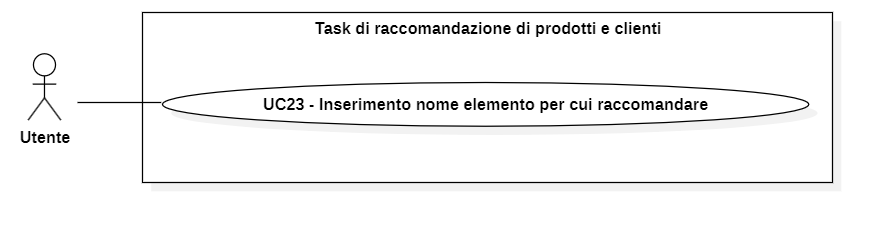
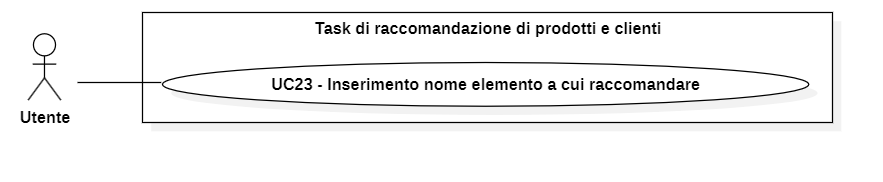
Sistemazione dei casi d'uso dopo l'incontro con il professor Zanella del 28 maggio

diff --git a/chapters/3-analisi-requisiti.tex b/chapters/3-analisi-requisiti.tex
@@ -66,7 +66,7 @@ I casi d’uso che sono stati definiti sono i seguenti:
 \usecaseactors{Utente}
 \usecasepre{L'utente ha avviato la task di analisi delle vendite}
 \usecasedesc{L'utente carica un file CSV contenente i dati delle vendite}
-\usecasepost{Il sistema ha caricato il file CSV e lo ha memorizzato in un database Google Cloud}
+\usecasepost{Il sistema ha caricato il file CSV e lo ha memorizzato in un bucket del Google Cloud Storage}
 \label{uc:caricamento-file-csv}
 \end{usecase}
 
@@ -227,6 +227,17 @@ I casi d’uso che sono stati definiti sono i seguenti:
 \usecasepost{L'utente ha visualizzato l'esito positivo della task di analisi delle vendite}
 \usecasealt{UC14}
 \label{uc:visualizzazione-esito-positivo-task}
+\end{usecase}
+
+
+\hypertarget{UC13.1}{}
+\begin{usecase}{13.1}{Visualizzazione del token identificativo del file degli ordini}
+
+\usecaseactors{Utente}
+\usecasepre{L'utente ha cliccato sul pulsante di esecuzione della task di analisi delle vendite}
+\usecasedesc{L'utente visualizza il token identificativo del file degli ordini caricato}
+\usecasepost{L'utente ha visualizzato il token identificativo del file degli ordini caricato}
+\label{uc:visualizzazione-token-file-ordini}
 \end{usecase}
 
 
@@ -484,19 +495,38 @@ I casi d’uso che sono stati definiti sono i seguenti:
 \end{usecase}
 
 
-\hypertarget{UC19}{}
-\begin{usecase}{19}{Inserimento del nome del file CSV degli ordini originale}
+\hypertarget{UC18.4}{}
+\begin{usecase}{18.4}{Visualizzazione del token identificativo del file degli ordini}
 
 \begin{figure}[!h] 
     \centering 
-    \includegraphics[width=0.9\columnwidth]{usecase/UC19 - Inserimento nome CSV degli ordini originale.png}
-    \caption{UC19 - Inserimento del nome del file CSV degli ordini originale}
+    \includegraphics[width=0.9\columnwidth]{usecase/UC18.4 - Visualizzazione del token identificativo del file degli ordini.png}
+    \caption{UC18.4 - Visualizzazione del token identificativo del file degli ordini}
+\end{figure}
+
+\usecaseactors{Utente}
+\usecasepre{L'utente ha cliccato sul pulsante di esecuzione della task di analisi delle vendite, e poi ha visitato la propria casella di posta elettronica e cliccato sull'email ricevuta contenente il report delle vendite}
+\usecasedesc{L'utente visualizza il token identificativo del file degli ordini caricato}
+\usecasepost{L'utente ha visualizzato il token identificativo del file degli ordini caricato}
+\label{uc:visualizzazione-token-file-ordini-mail}
+\end{usecase}
+
+\end{usecase}
+
+
+\hypertarget{UC19}{}
+\begin{usecase}{19}{Inserimento del token identificativo del file degli ordini}
+
+\begin{figure}[!h] 
+    \centering 
+    \includegraphics[width=0.9\columnwidth]{usecase/UC19 - Inserimento del token identificativo del file degli ordini.png}
+    \caption{UC19 - Inserimento del token identificativo del file degli ordini}
 \end{figure}
 
 \usecaseactors{Utente}
 \usecasepre{L'utente ha eseguito con successo la task di analisi delle vendite e poi ha avviato la task di raccomandazione di prodotti e clienti}
-\usecasedesc{L'utente inserisce il nome del file CSV degli ordini originale}
-\usecasepost{Il sistema ricerca il file CSV corrispondente al nome inserito all'interno del database Google Cloud}
+\usecasedesc{L'utente inserisce il token identificativo del file degli ordini, che era stato generato dalla task di analisi delle vendite}
+\usecasepost{Il sistema ricerca il bucket corrispondente al token identificativo all'interno del Google Cloud Storage}
 \label{uc:inserimento-nome-file-csv}
 \end{usecase}
 
@@ -542,42 +572,59 @@ I casi d’uso che sono stati definiti sono i seguenti:
 
 
 \hypertarget{UC23}{}
-\begin{usecase}{23}{Inserimento nome elemento per cui raccomandare}
+\begin{usecase}{23}{Inserimento nome elemento a cui raccomandare}
 
 \begin{figure}[!h] 
     \centering 
     \includegraphics[width=0.9\columnwidth]{usecase/UC23 - Inserimento nome elemento a cui raccomandare.png}
-    \caption{UC23 - Inserimento nome elemento per cui raccomandare}
+    \caption{UC23 - Inserimento nome elemento a cui raccomandare}
 \end{figure}
 
 \usecaseactors{Utente}
 \usecasepre{L'utente ha eseguito con successo la task di analisi delle vendite e poi ha avviato la task di raccomandazione di prodotti e clienti}
-\usecasedesc{L'utente inserisce il nome dell'elemento per cui desidera che venga eseguita la raccomandazione}
-\usecasepost{Il sistema cerca l'elemento corrispondente al nome inserito all'interno del database Google Cloud}
+\usecasedesc{L'utente inserisce il nome dell'elemento a cui desidera che vengano raccomandati prodotti o clienti, a seconda del tipo di raccomandazione selezionato}
+\usecasepost{Il sistema cerca l'elemento corrispondente al nome inserito all'interno del file salvato nel Google Cloud Storage}
 \label{uc:inserimento-nome-elemento}
 \end{usecase}
 
 
 \hypertarget{UC24}{}
-\begin{usecase}{24}{Selezione lingua per la raccomandazione}
+\begin{usecase}{24}{Inserimento del numero di raccomandazioni desiderate}
 
 \begin{figure}[!h] 
     \centering 
-    \includegraphics[width=0.9\columnwidth]{usecase/UC24 - Selezione lingua per la raccomandazione.png}
-    \caption{UC24 - Selezione lingua per la raccomandazione}
+    \includegraphics[width=0.9\columnwidth]{usecase/UC24 - Inserimento del numero di raccomandazioni desiderate.png}
+    \caption{UC24 - Inserimento del numero di raccomandazioni desiderate}
+\end{figure}
+
+\usecaseactors{Utente}
+\usecasepre{L'utente ha eseguito con successo la task di analisi delle vendite e poi ha avviato la task di raccomandazione di prodotti e clienti}
+\usecasedesc{L'utente inserisce il numero di raccomandazioni che desidera che vengano generate}
+\usecasepost{Il sistema ha memorizzato il numero di raccomandazioni desiderate}
+\label{uc:inserimento-numero-raccomandazioni}
+\end{usecase}
+
+
+\hypertarget{UC25}{}
+\begin{usecase}{25}{Selezione lingua per la raccomandazione}
+
+\begin{figure}[!h] 
+    \centering 
+    \includegraphics[width=0.9\columnwidth]{usecase/UC25 - Selezione lingua per la raccomandazione.png}
+    \caption{UC25 - Selezione lingua per la raccomandazione}
 \end{figure}
 
 \usecaseactors{Utente}
 \usecasepre{L'utente ha eseguito con successo la task di analisi delle vendite e poi ha avviato la task di raccomandazione di prodotti e clienti}
 \usecasedesc{L'utente seleziona la lingua in cui desidera generare la raccomandazione}
 \usecasepost{Il sistema ha memorizzato la lingua selezionata}
-\usespecial{UC25, UC26, UC27, UC28, UC29}
+\usespecial{UC26, UC27, UC28, UC29, UC30}
 \label{uc:selezione-lingua-raccomandazione}
 \end{usecase}
 
 
-\hypertarget{UC25}{}
-\begin{usecase}{25}{Selezione lingua italiano per la raccomandazione}
+\hypertarget{UC26}{}
+\begin{usecase}{26}{Selezione lingua italiano per la raccomandazione}
 
 \usecaseactors{Utente}
 \usecasepre{L'utente ha eseguito con successo la task di analisi delle vendite e poi ha avviato la task di raccomandazione di prodotti e clienti}
@@ -587,8 +634,8 @@ I casi d’uso che sono stati definiti sono i seguenti:
 \end{usecase}
 
 
-\hypertarget{UC26}{}
-\begin{usecase}{26}{Selezione lingua inglese per la raccomandazione}
+\hypertarget{UC27}{}
+\begin{usecase}{27}{Selezione lingua inglese per la raccomandazione}
 
 \usecaseactors{Utente}
 \usecasepre{L'utente ha eseguito con successo la task di analisi delle vendite e poi ha avviato la task di raccomandazione di prodotti e clienti}
@@ -598,8 +645,8 @@ I casi d’uso che sono stati definiti sono i seguenti:
 \end{usecase}
 
 
-\hypertarget{UC27}{}
-\begin{usecase}{27}{Selezione lingua francese per la raccomandazione}
+\hypertarget{UC28}{}
+\begin{usecase}{28}{Selezione lingua francese per la raccomandazione}
 
 \usecaseactors{Utente}
 \usecasepre{L'utente ha eseguito con successo la task di analisi delle vendite e poi ha avviato la task di raccomandazione di prodotti e clienti}
@@ -609,8 +656,8 @@ I casi d’uso che sono stati definiti sono i seguenti:
 \end{usecase}
 
 
-\hypertarget{UC28}{}
-\begin{usecase}{28}{Selezione lingua spagnolo per la raccomandazione}
+\hypertarget{UC29}{}
+\begin{usecase}{29}{Selezione lingua spagnolo per la raccomandazione}
 
 \usecaseactors{Utente}
 \usecasepre{L'utente ha eseguito con successo la task di analisi delle vendite e poi ha avviato la task di raccomandazione di prodotti e clienti}
@@ -620,8 +667,8 @@ I casi d’uso che sono stati definiti sono i seguenti:
 \end{usecase}
 
 
-\hypertarget{UC29}{}
-\begin{usecase}{29}{Selezione lingua tedesco per la raccomandazione}
+\hypertarget{UC30}{}
+\begin{usecase}{30}{Selezione lingua tedesco per la raccomandazione}
 
 \usecaseactors{Utente}
 \usecasepre{L'utente ha eseguito con successo la task di analisi delle vendite e poi ha avviato la task di raccomandazione di prodotti e clienti}
@@ -631,27 +678,27 @@ I casi d’uso che sono stati definiti sono i seguenti:
 \end{usecase}
 
 
-\hypertarget{UC30}{}
-\begin{usecase}{30}{Visualizzazione classifica elementi raccomandati}
+\hypertarget{UC31}{}
+\begin{usecase}{31}{Visualizzazione classifica elementi raccomandati}
 
 \begin{figure}[!h]
     \centering 
-    \includegraphics[width=0.9\columnwidth]{usecase/UC30 - Visualizzazione classifica elementi raccomandati.png}
-    \caption{UC30 - Visualizzazione classifica elementi raccomandati}
+    \includegraphics[width=0.9\columnwidth]{usecase/UC31 - Visualizzazione classifica elementi raccomandati.png}
+    \caption{UC31 - Visualizzazione classifica elementi raccomandati}
 \end{figure}
 
 \usecaseactors{Utente}
 \usecasepre{L'utente ha cliccato sul pulsante di esecuzione della task di raccomandazione di prodotti e clienti}
 \usecasedesc{L'utente visualizza la classifica degli elementi raccomandati}
 \usecasepost{L'utente ha visualizzato la classifica degli elementi raccomandati}
-\usecasealt{UC31}
-\usespecial{UC32, UC33}
+\usecasealt{UC32}
+\usespecial{UC33, UC34}
 \label{uc:visualizzazione-classifica-elementi-raccomandati}
 \end{usecase}
 
 
-\hypertarget{UC31}{}
-\begin{usecase}{31}{Visualizzazione errore di elaborazione della task}
+\hypertarget{UC32}{}
+\begin{usecase}{32}{Visualizzazione errore di elaborazione della task}
 
 \usecaseactors{Utente}
 \usecasepre{L'utente ha cliccato sul pulsante di esecuzione della task di raccomandazione di prodotti e clienti}
@@ -661,8 +708,8 @@ I casi d’uso che sono stati definiti sono i seguenti:
 \end{usecase}
 
 
-\hypertarget{UC32}{}
-\begin{usecase}{32}{Visualizzazione classifica prodotti raccomandati}
+\hypertarget{UC33}{}
+\begin{usecase}{33}{Visualizzazione classifica prodotti raccomandati}
 
 \usecaseactors{Utente}
 \usecasepre{L'utente ha cliccato sul pulsante di esecuzione della task di raccomandazione di prodotti e clienti}
@@ -672,8 +719,8 @@ I casi d’uso che sono stati definiti sono i seguenti:
 \end{usecase}
 
 
-\hypertarget{UC33}{}
-\begin{usecase}{33}{Visualizzazione classifica clienti raccomandati}
+\hypertarget{UC34}{}
+\begin{usecase}{34}{Visualizzazione classifica clienti raccomandati}
 
 \usecaseactors{Utente}
 \usecasepre{L'utente ha cliccato sul pulsante di esecuzione della task di raccomandazione di prodotti e clienti}
